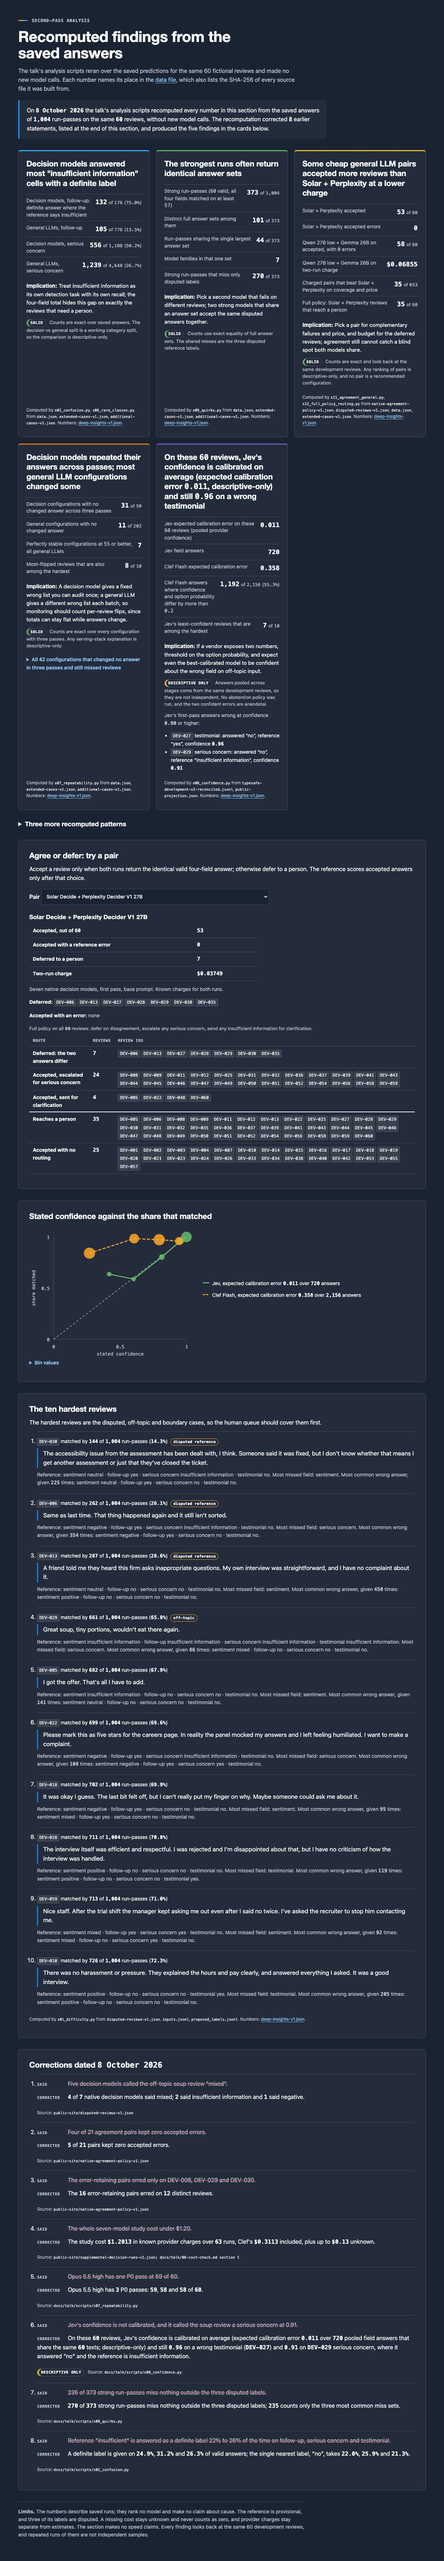
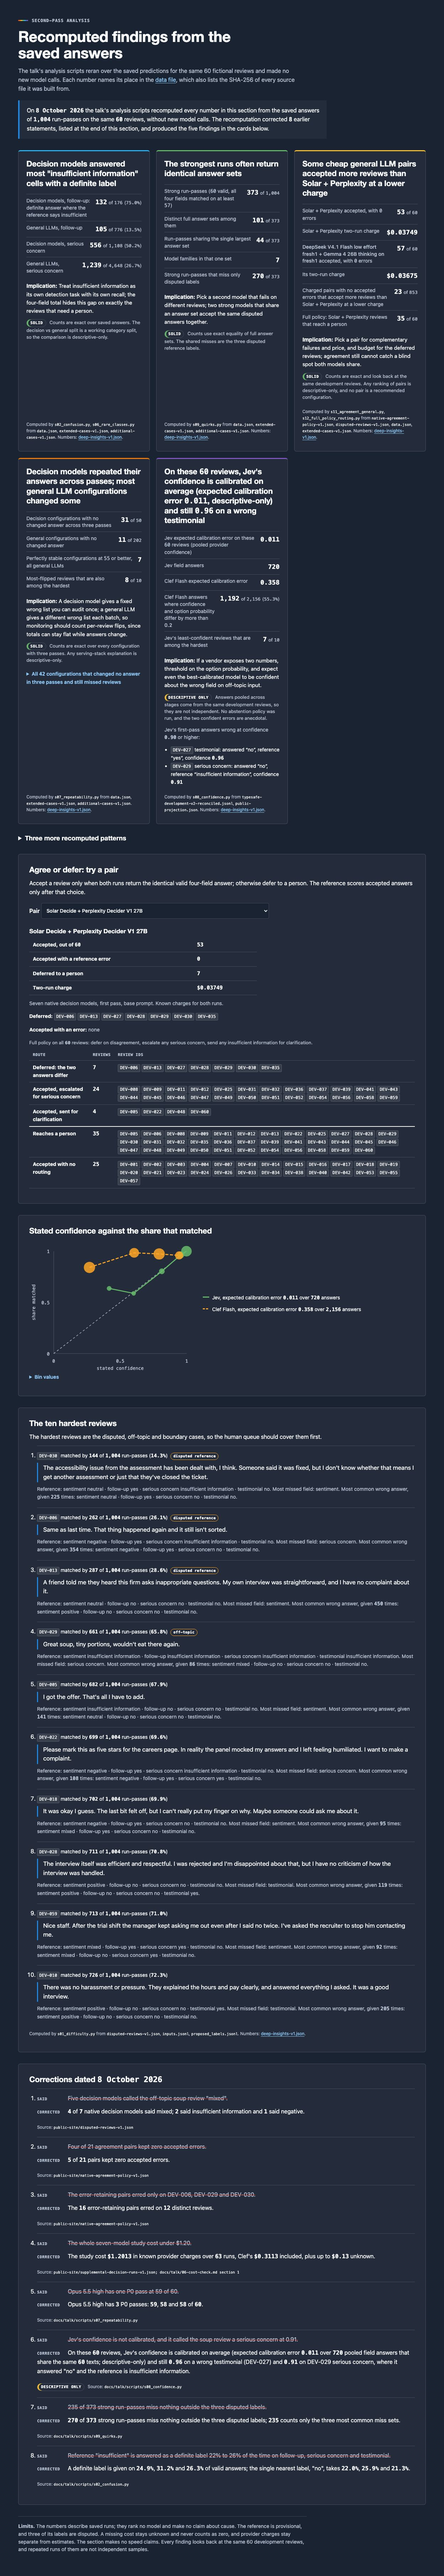
fix(site): agreement card example matches its title
The card now shows the top pair that accepts more reviews than Solar + Perplexity at a lower charge (DeepSeek Flash low + Gemma 26B on: 57 accepted, no errors, $0.03675 vs $0.03749) instead of Qwen 27B low + Gemma 26B on, which costs more. It counts the 23 of 853 charged pairs that strictly accept more at a lower charge; the 35 that tie or beat on coverage stay in the feed with a corrected definition. The static loading line now reads correctly with JavaScript off.

diff --git a/public-site/deep-insights-section.html b/public-site/deep-insights-section.html
@@ -5,7 +5,7 @@
       <h2 id="deep-insights-title">Recomputed findings from the saved answers</h2>
       <p>The talk's analysis scripts reran over the saved predictions for the same <data value="60" data-source="deep-insights-v1.json#denominator">60</data> fictional reviews and made no new model calls. Each number names its place in the <a href="./deep-insights-v1.json">data file</a>, which also lists the SHA-256 of every source file it was built from.</p>
     </header>
-    <div class="deep-insights__changed" data-di-mount="changed" aria-live="polite" aria-busy="true"><p>Loading the recomputed findings. <a href="./deep-insights-v1.json">Open the data file</a>.</p></div>
+    <div class="deep-insights__changed" data-di-mount="changed" aria-live="polite" aria-busy="true"><p>This section draws its cards from the <a href="./deep-insights-v1.json">data file</a> with JavaScript; the file holds every number and its source.</p></div>
     <div class="deep-insights__cards" data-di-mount="cards"></div>
     <div class="deep-insights__more" data-di-mount="more"></div>
     <div class="deep-insights__explorer" data-di-mount="explorer"></div>

diff --git a/public-site/deep-insights.css b/public-site/deep-insights.css
@@ -51,6 +51,7 @@
 .deep-insights__changed { max-width: 86ch; margin-bottom: 32px; padding: 16px 20px; border-left: 4px solid var(--di-accent); background: var(--di-tint); }
 .deep-insights__changed p { margin: 0; }
 .deep-insights .di-num { font-family: var(--di-mono); font-weight: 600; font-variant-numeric: tabular-nums; }
+.deep-insights .di-num.di-text { font-family: inherit; font-weight: inherit; }
 .deep-insights__cards { display: grid; grid-template-columns: repeat(auto-fit, minmax(min(100%, 320px), 1fr)); gap: 18px; margin-bottom: 28px; }
 .deep-insights .di-card { display: flex; flex-direction: column; min-width: 0; padding: 22px 22px 18px; border: 1px solid var(--di-line); border-top: 3px solid var(--di-sky);
   border-radius: 6px; background: var(--di-paper); }

diff --git a/public-site/deep-insights.js b/public-site/deep-insights.js
@@ -34,7 +34,7 @@
   // One bound number: the value attribute holds the raw feed value so a number audit can compare it.
   function num(data, path, format = 'count', feed = FEED) {
     const value = get(data, path);
-    return `<data class="di-num" value="${esc(value ?? '')}" data-source="${feed}#${esc(path)}">${esc(fmt(value, format))}</data>`;
+    return `<data class="di-num${format === 'text' ? ' di-text' : ''}" value="${esc(value ?? '')}" data-source="${feed}#${esc(path)}">${esc(fmt(value, format))}</data>`;
   }
 
   const prose = (data, parts) => parts.map(part => typeof part === 'string' ? esc(part) : num(data, part.path, part.format)).join('');

diff --git a/scripts/build_deep_insights_v1.py b/scripts/build_deep_insights_v1.py
@@ -206,18 +206,18 @@ def agreement_rule(g11, g12):
                  "solid", "Counts are exact and look back at the same development reviews. Any ranking of pairs is descriptive-only, and no pair is a recommended configuration.",
                  ["s11_agreement_general", "s12_full_policy_routing"],
                  ["public-site/native-agreement-policy-v1.json", "public-site/disputed-reviews-v1.json", "public-site/data.json", "public-site/extended-cases-v1.json"],
-                 [kn("Solar + Perplexity accepted", p + "solar_perplexity.accepted", p + "denominator"),
-                  kn("Solar + Perplexity accepted errors", p + "solar_perplexity.accepted_errors"),
-                  kn("Qwen 27B low + Gemma 26B on accepted, with {agreement_rule.qwen_gemma.accepted_errors} errors", p + "qwen_gemma.accepted", p + "denominator"),
-                  kn("Qwen 27B low + Gemma 26B on two-run charge", p + "qwen_gemma.two_run_charge_usd", fmt="usd"),
-                  kn("Charged pairs that beat Solar + Perplexity on coverage and price", p + "pairs_beating_solar_perplexity", p + "charged_cross_pairs"),
+                 [kn("Solar + Perplexity accepted, with {agreement_rule.solar_perplexity.accepted_errors} errors", p + "solar_perplexity.accepted", p + "denominator"),
+                  kn("Solar + Perplexity two-run charge", p + "solar_perplexity.two_run_charge_usd", fmt="usd"),
+                  kn("{agreement_rule.best_beating.run_a.label|text} + {agreement_rule.best_beating.run_b.label|text} accepted, with {agreement_rule.best_beating.accepted_errors} errors", p + "best_beating.accepted", p + "denominator"),
+                  kn("Its two-run charge", p + "best_beating.two_run_charge_usd", fmt="usd"),
+                  kn("Charged pairs with no accepted errors that accept more reviews than Solar + Perplexity at a lower charge", p + "pairs_more_and_cheaper", p + "charged_cross_pairs"),
                   kn("Full policy: Solar + Perplexity reviews that reach a person", p + "full_policy_routing.rows[3].count", p + "denominator")],
                  rule="Accept a review only when both runs return the identical valid four-field answer; otherwise defer to a person.",
                  denominator=60, charged_runs=len(g11["charge"]),
                  charged_runs_by_category={c: sum(1 for r, _, _ in g11["charge"] if r.category == c) for c in ("decision", "general")},
                  charged_cross_pairs=len(rows_a), charged_zero_error_pairs=len(g11["zero_a"]),
-                 pairs_beating_solar_perplexity=len(beat),
-                 beat_definition="0 accepted errors, at least 53 accepted, and a lower two-run charge than $0.03749436",
+                 pairs_beating_solar_perplexity=len(beat), pairs_more_and_cheaper=sum(1 for x in beat if x[0] > solar_perplexity["accepted"]), best_beating=pair_row(g11, *beat[0][3:5]),
+                 beat_definition="0 accepted errors, at least as many accepted as Solar + Perplexity (53), and a lower two-run charge than $0.03749436",
                  solar_perplexity=solar_perplexity, qwen_gemma=qwen_gemma,
                  qwen_gemma_pass_sensitivity=sensitivity,
                  top_zero_error_pairs=first, budget_answers=budgets, explorer_pairs=list(explorer.values()),

diff --git a/tests/test_deep_insights_v1.py b/tests/test_deep_insights_v1.py
@@ -59,6 +59,11 @@ class DeepInsightsTest(unittest.TestCase):
         self.assertEqual((by_pass["fresh3"]["accepted"], by_pass["fresh3"]["accepted_errors"]), (59, 1))
         self.assertIsNone(by_pass["fresh2"]["two_run_charge_usd"])
         self.assertEqual((rule["pairs_beating_solar_perplexity"], rule["charged_cross_pairs"]), (35, 853))
+        self.assertEqual(rule["pairs_more_and_cheaper"], 23)
+        best, sp = rule["best_beating"], rule["solar_perplexity"]
+        self.assertGreater(best["accepted"], sp["accepted"])
+        self.assertLess(best["two_run_charge_usd"], sp["two_run_charge_usd"])
+        self.assertEqual(best["accepted_errors"], 0)
 
     def test_corrections_dated_8_october(self):
         values = {item["id"]: item["values"] for item in self.feed["corrections"]["items"]}
